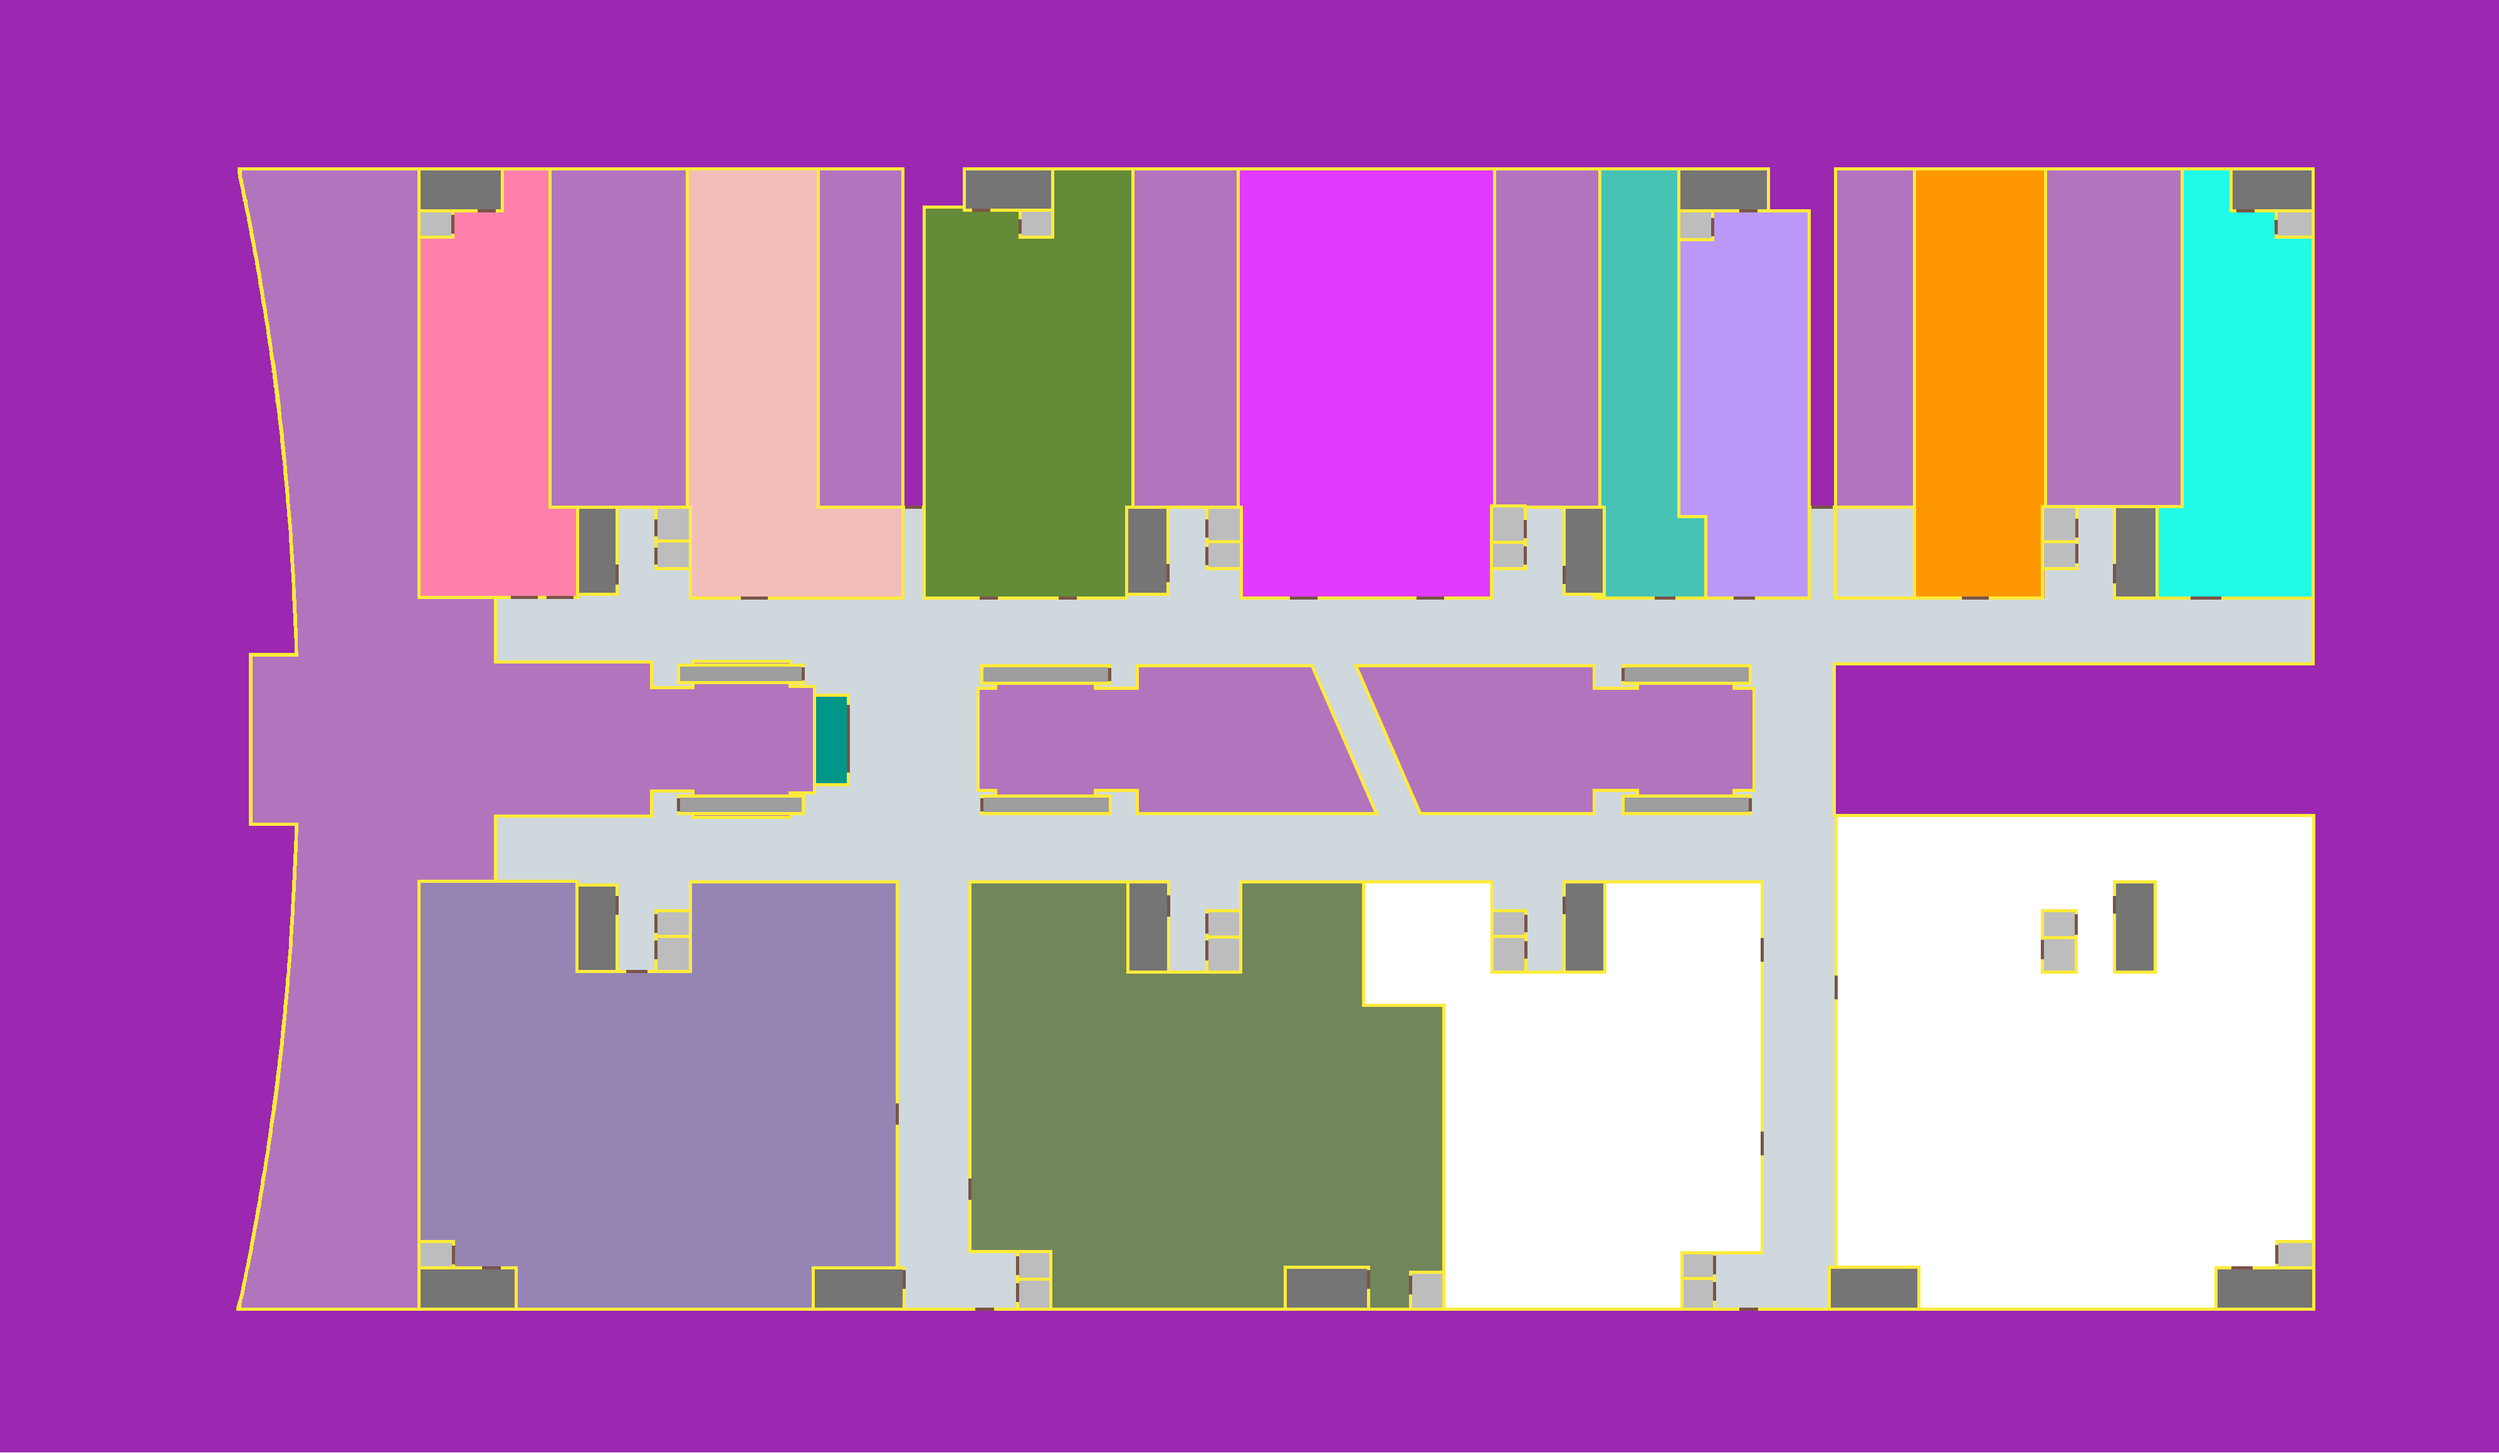
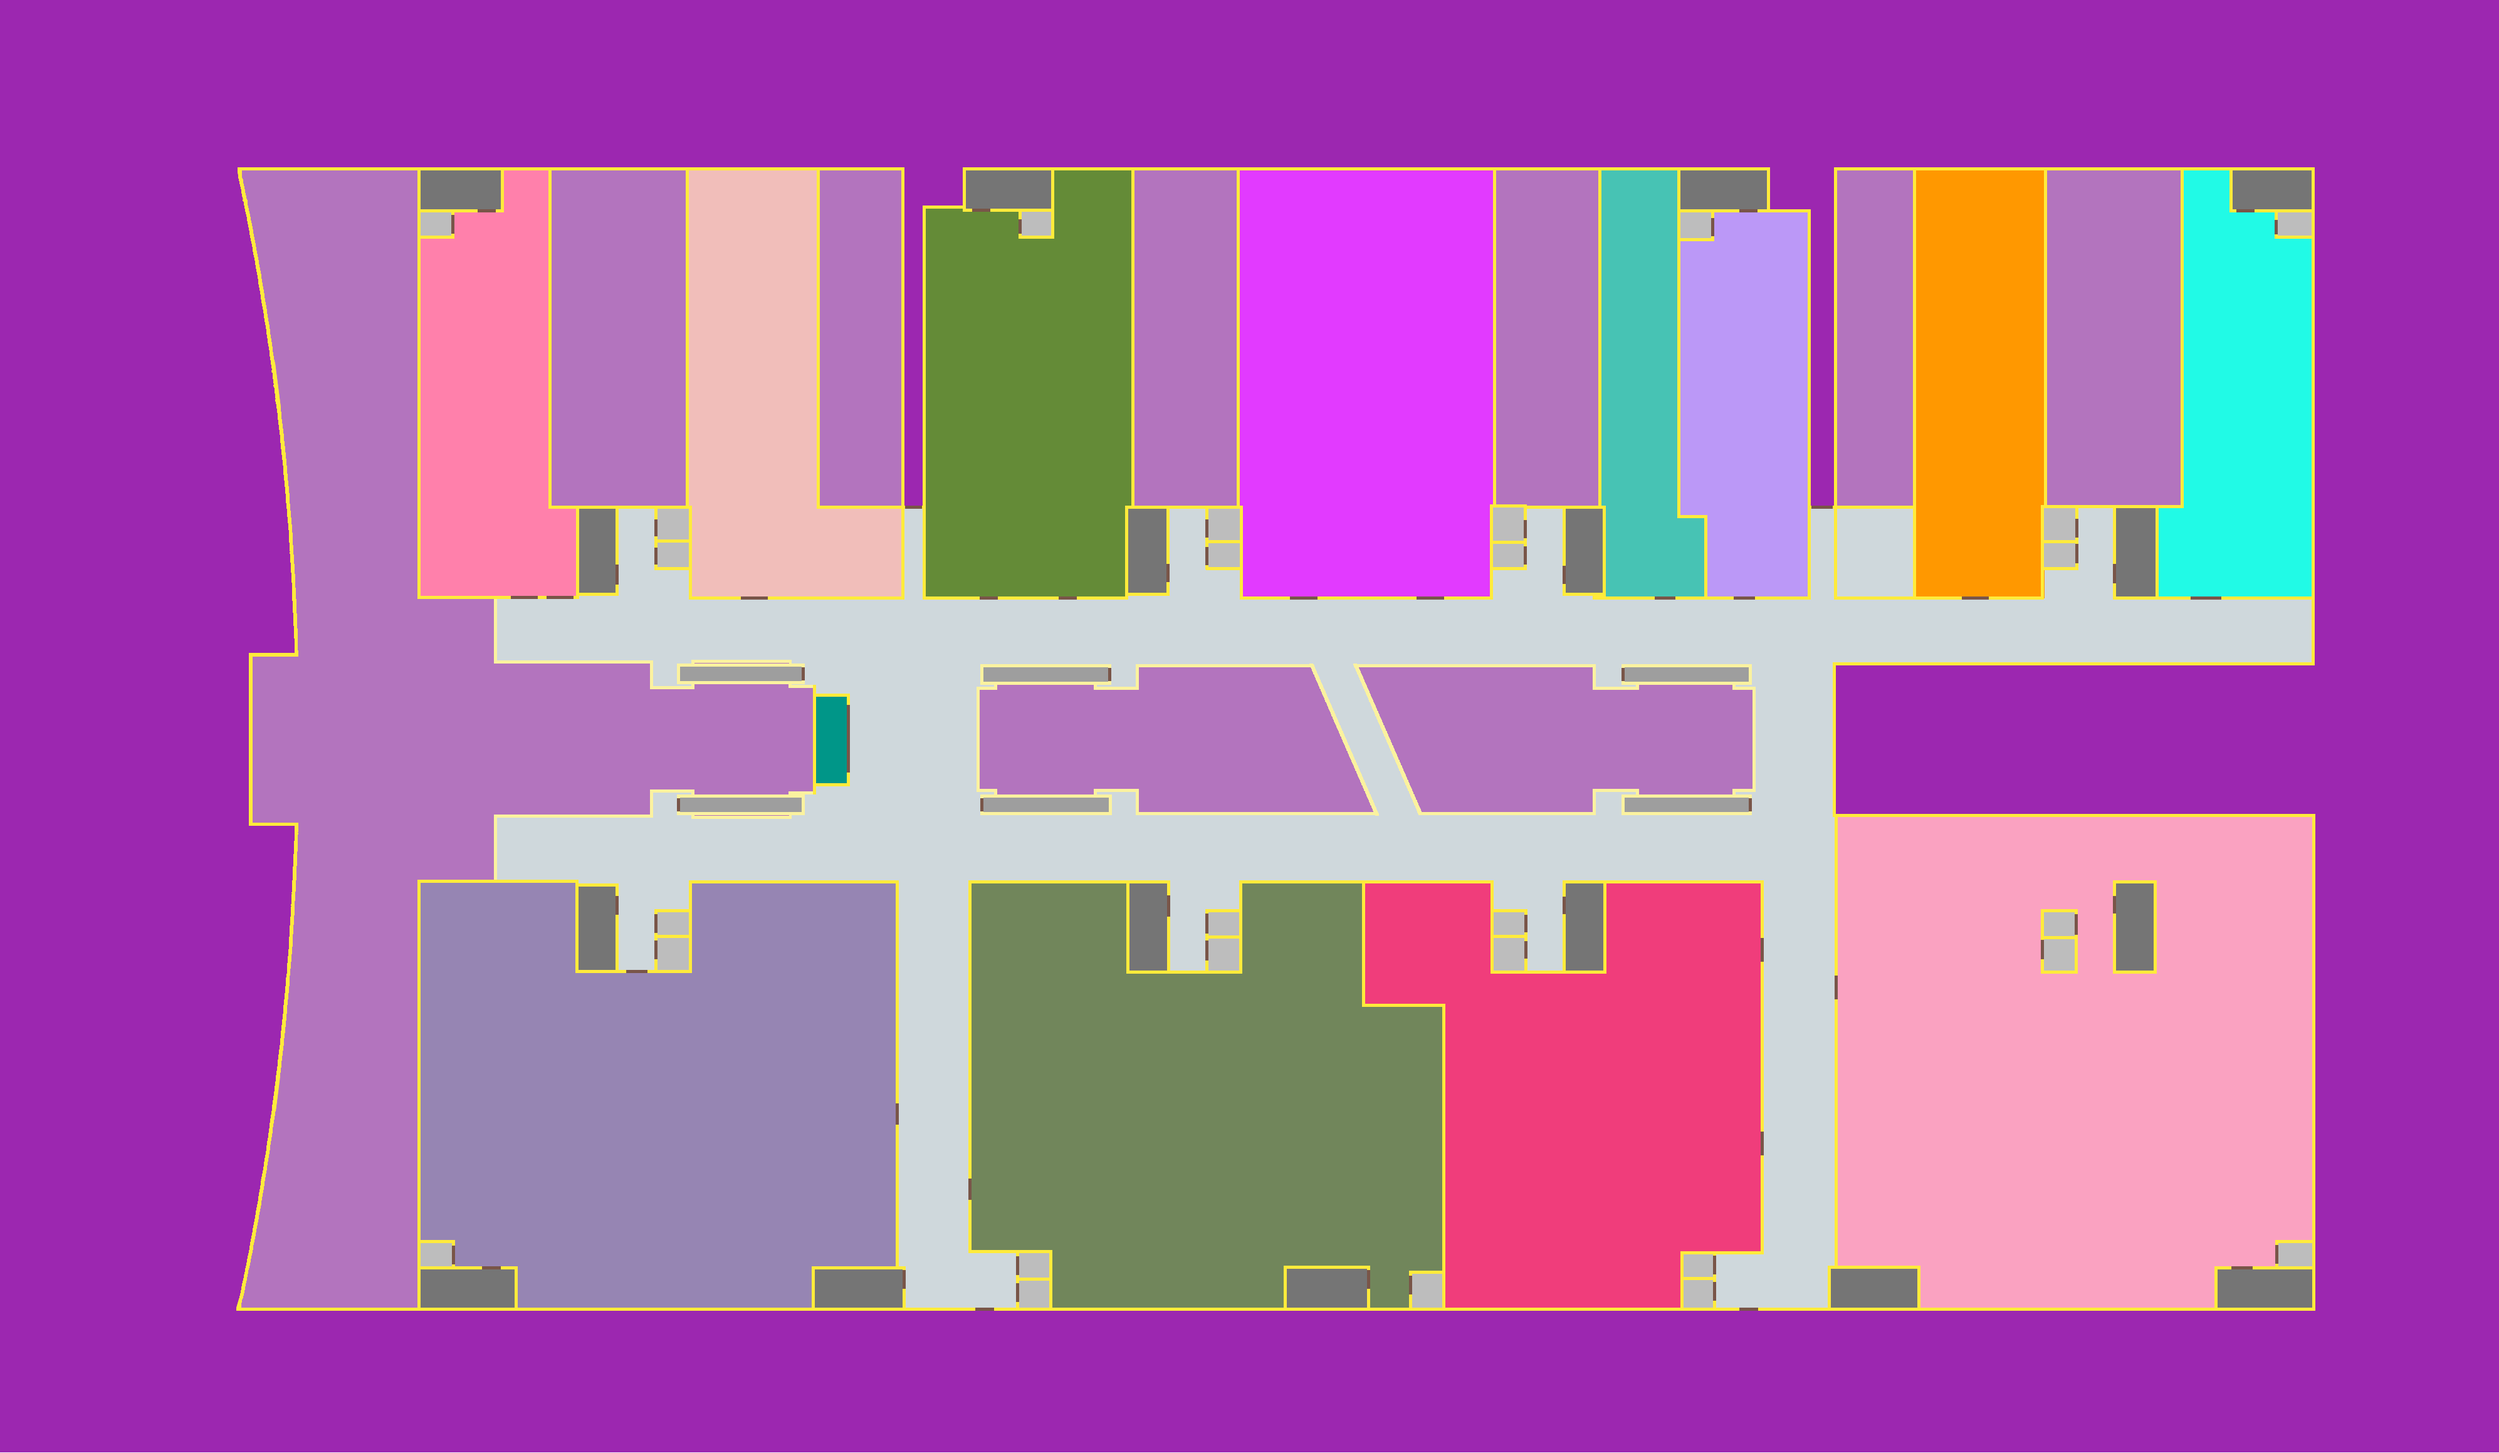
更新禁止区域类型，添加栏杆和医疗区域到颜色映射

diff --git a/src/config.py b/src/config.py
@@ -83,7 +83,7 @@ class Network_Config:
         self.AREA_THRESHOLD = 60 # 面积阈值
         self.SKEWNESS = 20 # 偏度
         self.CONNECTION_TYPES = ['门']
-        self.BAN_TYPES = ['墙', '室外', '走廊', '电梯', '扶梯', '楼梯', '空房间', '绿化', '中庭'] # 禁止区域
+        self.BAN_TYPES = ['墙','栏杆', '室外', '走廊', '电梯', '扶梯', '楼梯', '空房间', '绿化', '中庭'] # 禁止区域
         self.ROOM_TYPES = [v['name'] for k, v in COLOR_MAP.items() if v['name'] not in self.BAN_TYPES and v['name'] not in self.CONNECTION_TYPES] # 房间区域
         self.VERTICAL_TYPES = ['电梯', '扶梯', '楼梯'] # 垂直交通区域
         self.PEDESTRIAN_TYPES = ['走廊'] # 人行区域
@@ -155,6 +155,9 @@ COLOR_MAP = {
     (71, 195, 180): {'name': '心理科', 'time': 1},
     (187, 152, 247): {'name': '美容科', 'time': 1},
     (254, 210, 145): {'name': '介入科', 'time': 1},
+    (251, 242, 159): {'name': '栏杆', 'time': 1},
+    (240, 61, 123): {'name': 'NICU', 'time': 1},
+    (250, 162, 193): {'name': 'ICU', 'time': 1},
     (255, 255, 255): {'name': '空房间', 'time': 1}
 }
 
